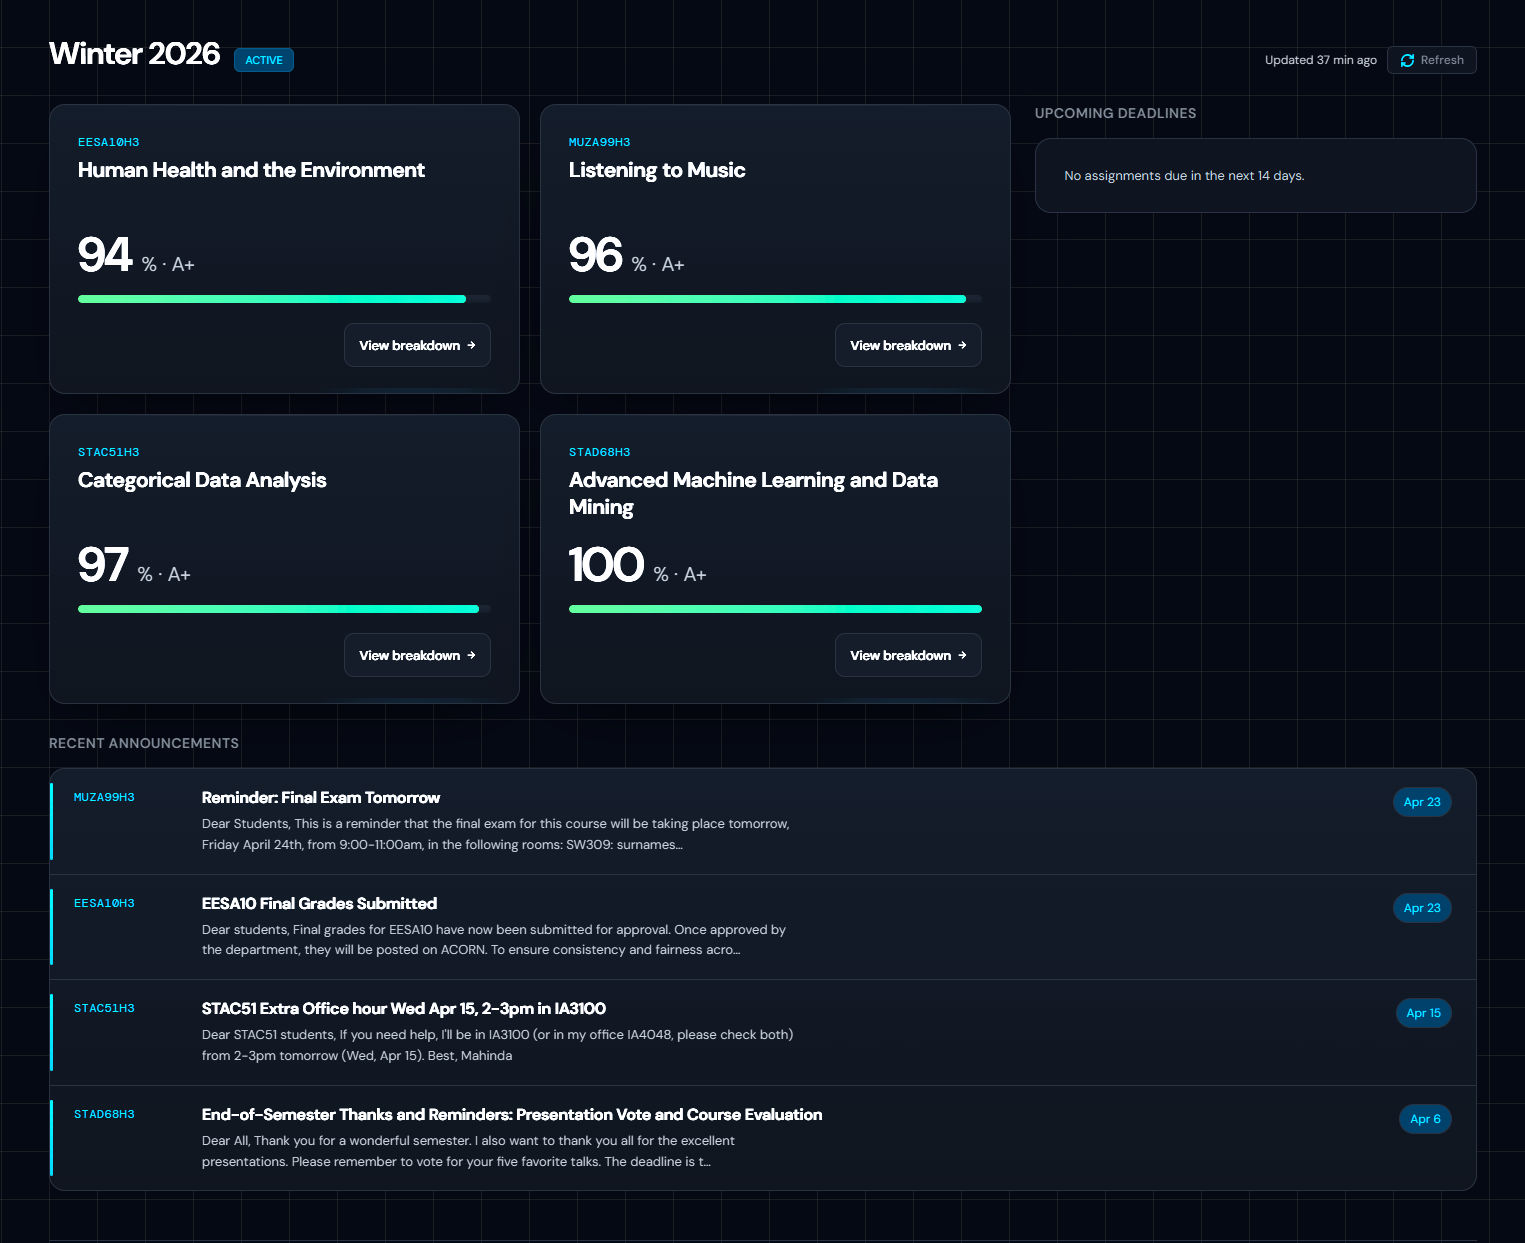
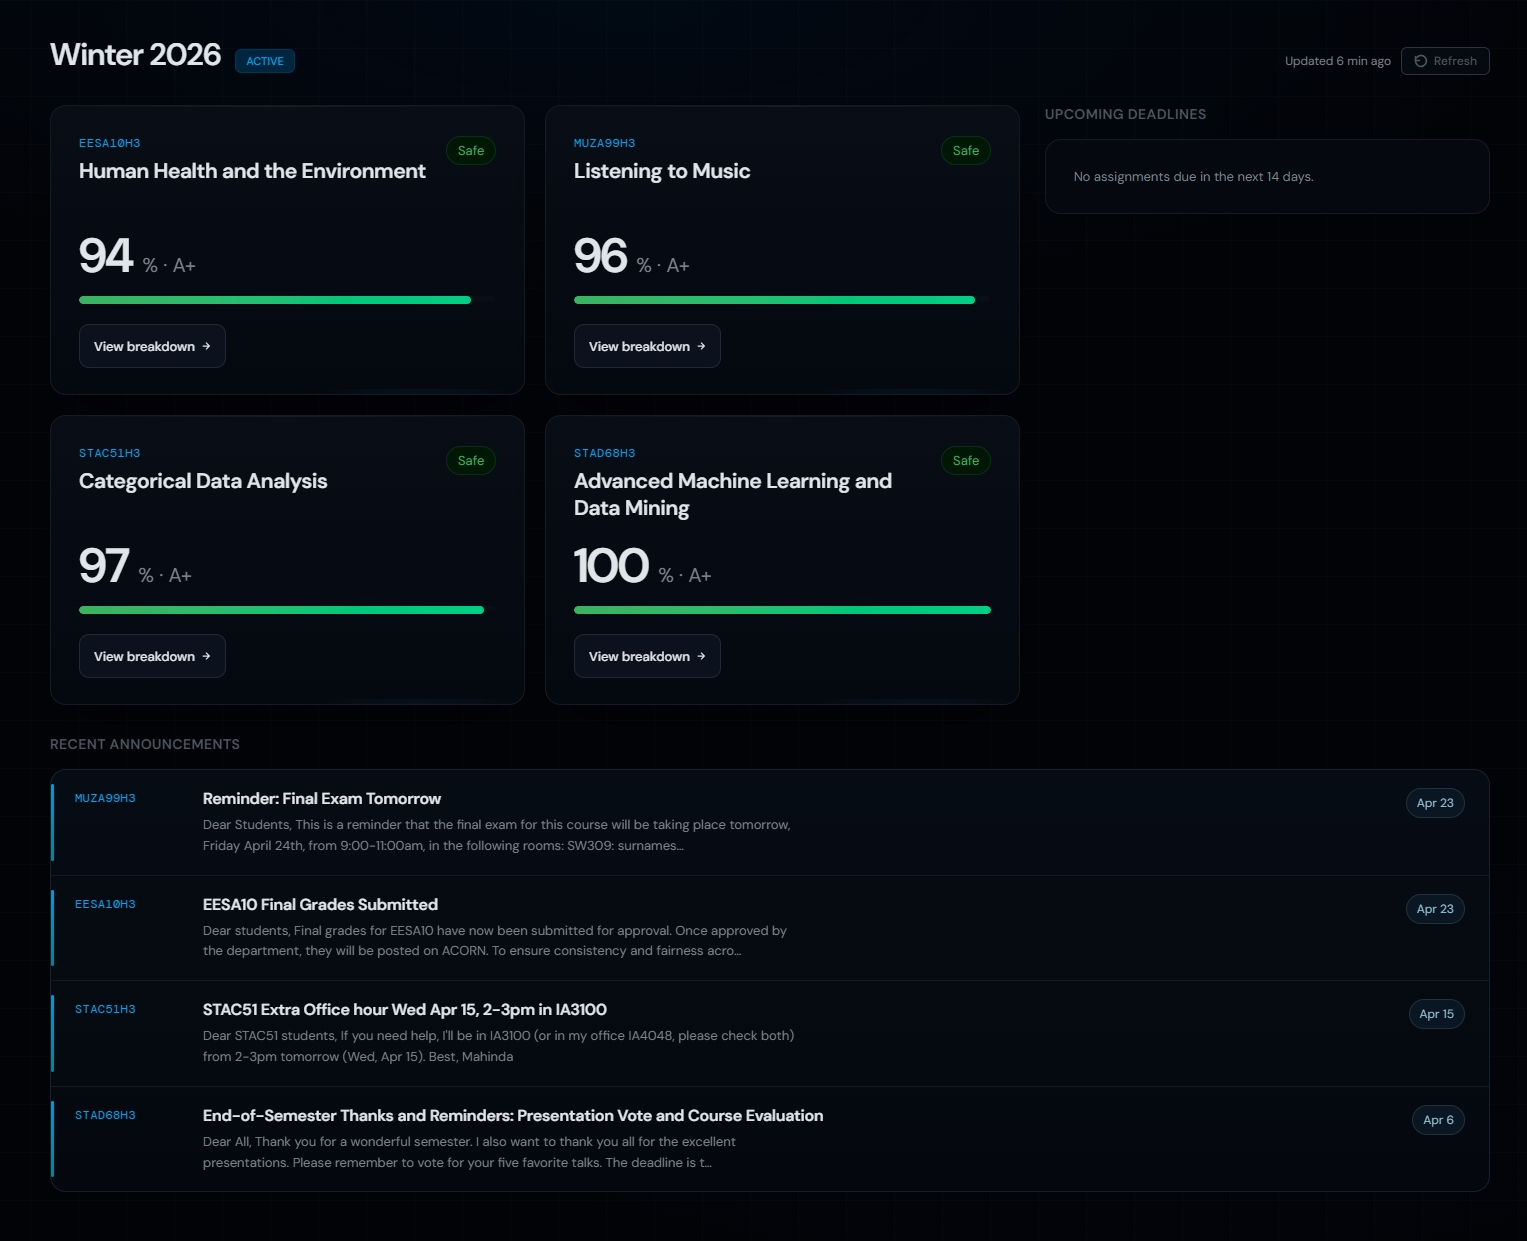
fix: improve docs

diff --git a/api/integrations/syllabus.py b/api/integrations/syllabus.py
@@ -48,12 +48,7 @@ class SyllabusError(Exception):
 
 
 def _get_anthropic_client() -> anthropic.Anthropic:
-    """Build an Anthropic client from the runtime environment.
-
-    The Streamlit app resolves secrets on the main thread during startup and
-    mirrors ANTHROPIC_API_KEY into os.environ. Syllabus parsing may run in a
-    worker thread, so this module avoids reading st.secrets at import time.
-    """
+    """Build an Anthropic client from the runtime environment."""
     api_key = os.getenv("ANTHROPIC_API_KEY")
     if not api_key:
         raise SyllabusError("ANTHROPIC_API_KEY is not configured")

diff --git a/api/auth/user_store.py b/api/auth/user_store.py
@@ -31,7 +31,7 @@ def get_supabase_client() -> Client:
 
 
 def get_or_create_user(google_id: str, email: str | None) -> dict:
-    """Upsert the current Streamlit-auth user and return the stored row."""
+    """Upsert the current authenticated user and return the stored row."""
     if not google_id or not str(google_id).strip():
         raise UserStoreError("google_id must be a non-empty string")
 

diff --git a/api/services/course_service.py b/api/services/course_service.py
@@ -43,7 +43,7 @@ class CourseServiceError(RuntimeError):
 
 
 class UncachedQuercusClient(QuercusClient):
-    """Quercus client variant that avoids Streamlit cache decorators."""
+    """Quercus client variant that bypasses cache decorators on the base client."""
 
     def get_submissions(self, course_id: int | str) -> list:
         return self._get(

diff --git a/api/auth/__init__.py b/api/auth/__init__.py
@@ -1,1 +1,1 @@
-# auth package — auth is now handled by Streamlit's native st.login() / st.logout().
+# auth package — Supabase-backed user store and encrypted Quercus token persistence.

diff --git a/CLAUDE.md b/CLAUDE.md
@@ -89,44 +89,14 @@ An AI academic assistant for University of Toronto students.
 
 ## Auth
 
-There are now two auth paths in the repo:
+The app uses FastAPI Google OAuth with JWT-based sessions:
 
-- Streamlit app: still uses Streamlit's native Google auth (`st.login("google")`, `st.user`, `st.logout()`)
-- React + FastAPI app: uses FastAPI Google OAuth, then redirects to the frontend callback with a signed JWT
-
-The new React auth flow is:
-
-- frontend login button hits `GET /auth/google`
+- Frontend login button hits `GET /auth/google`
 - FastAPI sends the user to Google
 - Google returns to FastAPI at `REDIRECT_URI`
 - FastAPI callback signs a JWT and redirects to `${FRONTEND_URL}/auth/callback?token=...`
 - React stores the token in localStorage and uses it for protected API calls
 - After Google auth, React checks for a saved Quercus token; users without one are sent to `/onboarding`
-
-Expected Streamlit secrets structure:
-
-```toml
-ANTHROPIC_API_KEY = "..."
-SUPABASE_URL = "..."
-SUPABASE_KEY = "..."
-ENCRYPTION_KEY = "..."
-
-[auth]
-redirect_uri = "http://localhost:8501/oauth2callback"
-cookie_secret = "..."
-
-[auth.google]
-client_id = "..."
-client_secret = "..."
-server_metadata_url = "https://accounts.google.com/.well-known/openid-configuration"
-```
-
-Important:
-
-- Keep flat app secrets such as `ANTHROPIC_API_KEY` at the top level
-- Do not place them under `[auth]` or `[auth.google]`
-- `app.py` reads flat app secrets on the main thread and mirrors runtime values such as `ANTHROPIC_API_KEY`, `SUPABASE_URL`, `SUPABASE_KEY`, and `ENCRYPTION_KEY` into `os.environ` for helper modules
-- The app upserts the logged-in user by `st.user.sub` and stores encrypted Quercus tokens in the `quercus_tokens` table keyed by `user_id`
 
 ## Environment Variables
 
@@ -161,9 +131,9 @@ Implemented:
 - Canvas page syllabus support for courses where the syllabus is published as a Quercus page instead of a file
 - Short-lived Quercus caching: assignment groups and submissions are cached for 5 minutes
 - Syllabus parsing cache: in-process cache for 1 hour plus persistent Supabase cache in `syllabus_weights_cache`
-- ACORN import flow from the published Chrome extension to Railway-hosted backend to Streamlit readback
+- ACORN import flow from the published Chrome extension to Railway-hosted backend to React app
 - ACORN imports can now be claimed to the logged-in user account so returning users do not need to re-import on every visit
-- The Streamlit ACORN tab is behind the `ACORN_ENABLED` feature flag and, when enabled, shows either saved ACORN data or the onboarding / re-import flow
+- The ACORN page shows either saved ACORN data or the onboarding / re-import flow
 - Public privacy pages under `docs/` and extension privacy docs under `uoft-acorn-extension/`
 - ACORN tab shows a summary table (Courses Imported, Total Credits, Cumulative GPA) and an Altair line chart of GPA over time with a Sessional / Cumulative toggle; chart uses adaptive Y-axis zoom and labelled data points
 - ACORN data is structured per-term: the extension extracts term headings, sessional GPA, and cumulative GPA directly from the ACORN DOM and stores them in a `terms` top-level array alongside the flat `courses` list
@@ -211,7 +181,7 @@ Not implemented yet:
 
 - Courses with unresolved or only partially reliable syllabus-to-Canvas mappings intentionally show no weighted overview grade
 - What-if sliders are only enabled when the weighted component model is reliable
-- The ACORN backend still receives extension imports by import code first; the Streamlit app then claims the latest matching import to the logged-in user account
+- The ACORN backend still receives extension imports by import code first; the React app then claims the latest matching import to the logged-in user account
 - Quercus token persistence requires a valid `ENCRYPTION_KEY` and Supabase tables compatible with the app's `users` and `quercus_tokens` queries
 - Persistent syllabus caching requires a `syllabus_weights_cache` table in Supabase
 - Quercus grade changes can take up to about 5 minutes to appear because submissions and assignment groups are cached for 300 seconds
@@ -250,18 +220,6 @@ Install dependencies:
 
 ```bash
 pip install -r requirements.txt
-```
-
-Run the Streamlit app:
-
-```bash
-streamlit run app.py
-```
-
-Run the ACORN backend:
-
-```bash
-python api_server.py
 ```
 
 Run the FastAPI backend (dev):
